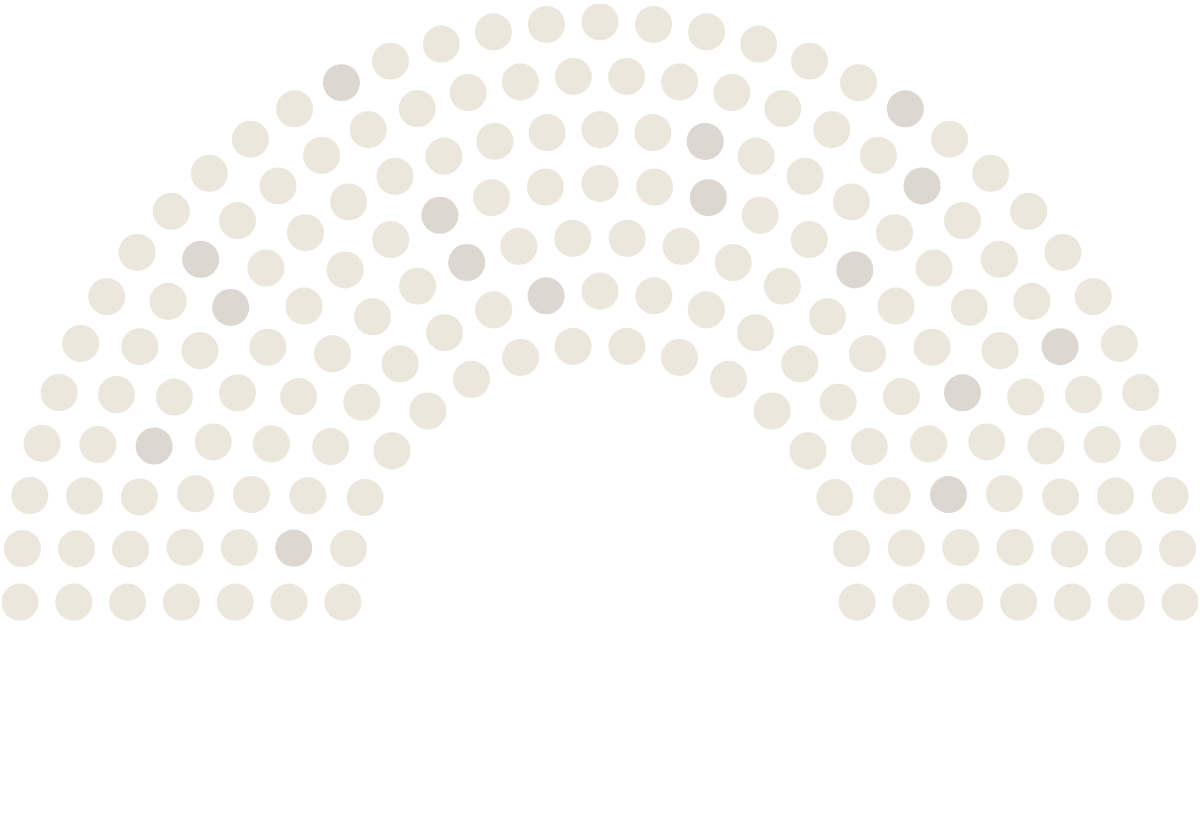
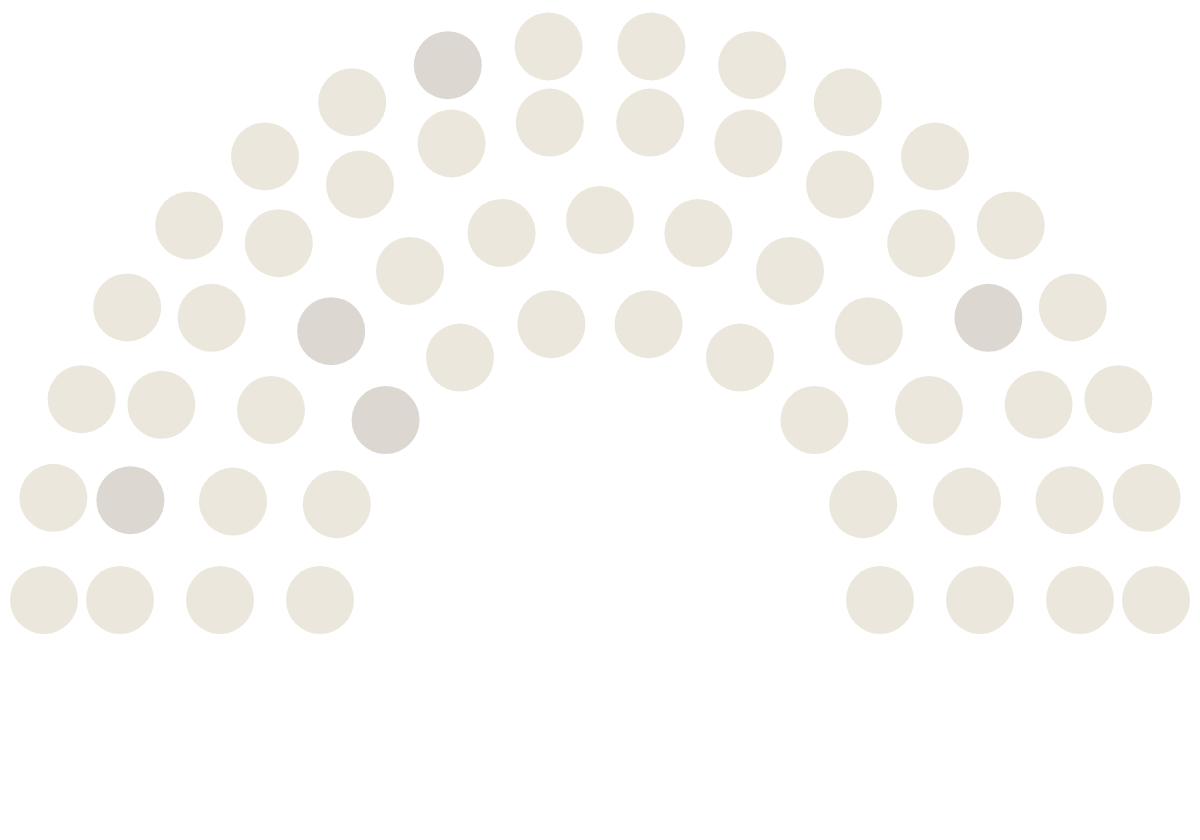
feat(email): meno seggi e più grandi nello sfondo

Changed region(s): [[0.0, 0.0, 1.0, 0.7738]]

diff --git a/scripts/email/seggi.html b/scripts/email/seggi.html
@@ -1,12 +1,28 @@
 <!doctype html>
 <html lang="it"><head><meta charset="utf-8">
-<!-- Sfondo delle email (Brevo, modelli 2 e 3): l'emiciclo dei seggi del volantino
-     ISWC (comunicazione/presentazioni/iswc2026-poster/assets/hemicycle-bg.svg, senza
-     il seggio blu), intero nella colonna di 600 px della mail (più largo verrebbe tagliato ai lati), dietro il riquadro.
-     Si rende con scripts/email/intestazione.py in public/email/seggi@2x.png. -->
-<style>
-html, body { margin: 0; background: transparent; }
-body { width: 600px; height: 420px; position: relative; overflow: hidden; }
-img { position: absolute; left: 50%; top: 2px; width: 598px; transform: translateX(-50%); }
-</style></head>
-<body><img src="emiciclo.svg" alt=""></body></html>
+<!-- Sfondo delle email (Brevo, modelli 2 e 3): emiciclo di seggi nello stile del
+     volantino ISWC (comunicazione/presentazioni/iswc2026-poster/assets/hemicycle-bg.svg,
+     stessi colori), con meno file e seggi più grandi, intero nella colonna di 600 px
+     della mail. Si rende con scripts/email/intestazione.py in public/email/seggi@2x.png. -->
+<style>html, body { margin: 0; background: transparent; } svg { display: block; }</style>
+</head><body>
+<svg id="seggi" width="600" height="420" viewBox="0 0 600 420"></svg>
+<script>
+const s = document.getElementById("seggi"), cx = 300, cy = 300, r = 17;
+let n = 0;
+[140, 190, 240, 278].forEach((R) => {
+  const passi = Math.round((Math.PI * R) / 50);
+  for (let k = 0; k <= passi; k++) {
+    const a = Math.PI + (Math.PI * k) / passi;
+    const c = document.createElementNS("http://www.w3.org/2000/svg", "circle");
+    c.setAttribute("cx", (cx + R * Math.cos(a)).toFixed(1));
+    c.setAttribute("cy", (cy + R * Math.sin(a)).toFixed(1));
+    c.setAttribute("r", r);
+    // pochi seggi più scuri, sempre gli stessi
+    c.setAttribute("fill", (n * 7) % 11 === 3 ? "#DCD8D1" : "#ECE7DD");
+    s.appendChild(c);
+    n++;
+  }
+});
+</script>
+</body></html>
